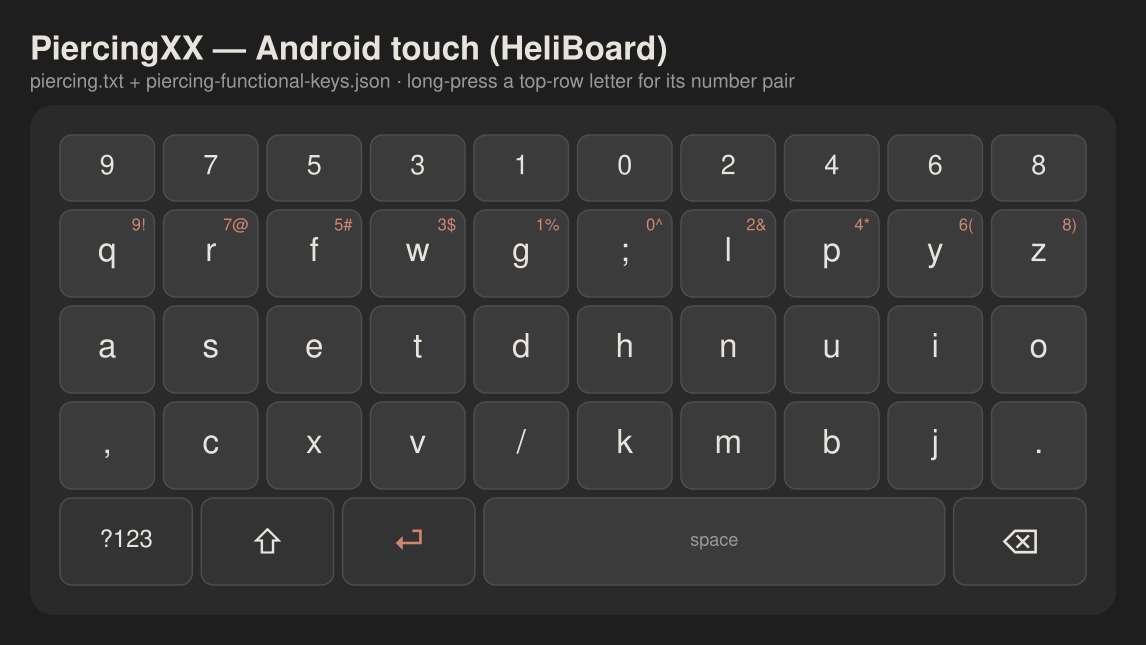
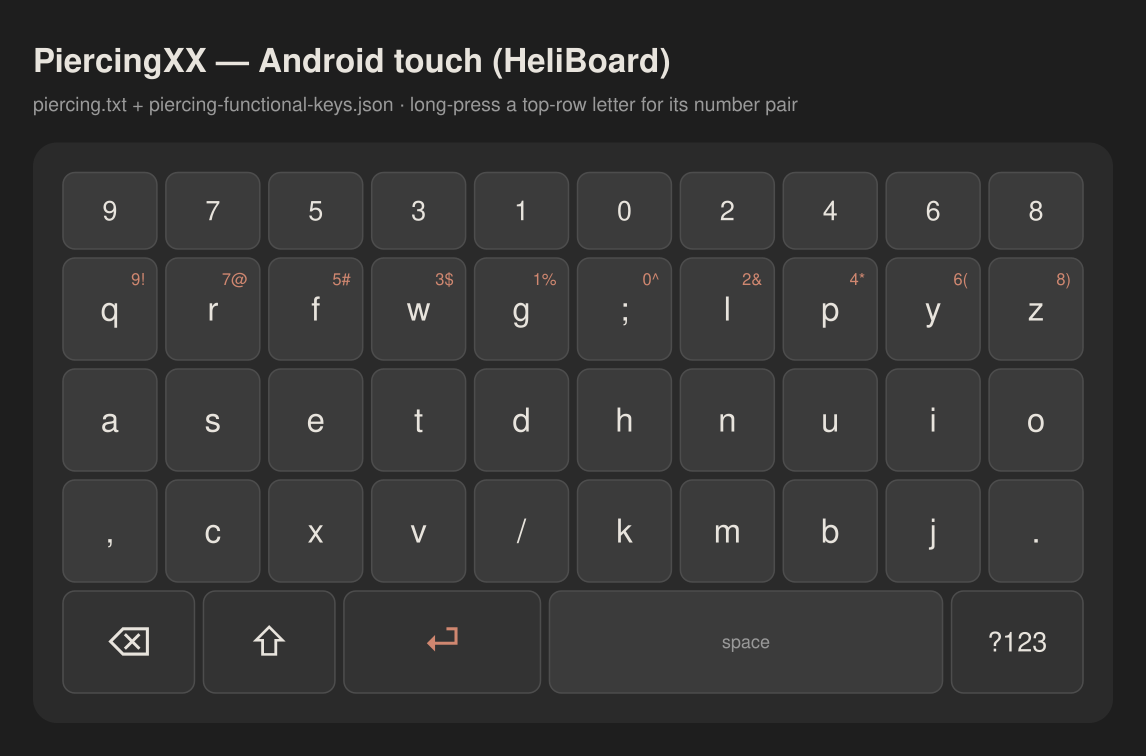
Touch keyboards: swap Backspace/123 ends, widen Enter to 1:2 with space
Bottom row on HeliBoard and all Squeekboard variants is now
Backspace / Shift / (prefs) / Enter / space / 123, with the Enter key
sized at half the spacebar.

diff --git a/README.md b/README.md
@@ -69,8 +69,9 @@ On-screen keyboard layouts for Phosh phones (Furi, PinePhone, Librem 5),
 based on the furi-phone-colemak-keyboard structure. Includes portrait +
 landscape (`_wide`) variants of the base layout plus `terminal/` (Ctrl,
 Alt, Tab, arrows, F-keys), `email/` (@ key), and `url/` (/ key) hint
-variants. Bottom row everywhere: Shift · 123 · prefs · Enter · space ·
-Backspace — Enter left of space, same as the Preonic thumb keys.
+variants. Bottom row everywhere: Backspace · Shift · prefs · Enter ·
+space · 123 — Enter left of space (~1:2 Enter:space split), same thumb
+order as the Preonic.
 
 Run **on the phone**, inside the Phosh session:
 
@@ -100,7 +101,8 @@ of Gboard itself. Use [HeliBoard](https://github.com/Helium314/HeliBoard)
 2. Settings → Layouts → Functional keys → add custom →
    load `android/heliboard/piercing-functional-keys.json`. This clears the
    cramped Shift/Backspace off the letter row and makes the bottom row
-   `?123 · ⇧ · ⏎ · space · ⌫` (Enter left of space, like the Preonic).
+   `⌫ · ⇧ · ⏎ · space · ?123` (Enter left of a ~1:2 space, like the
+   Preonic).
 3. Long-press any top-row letter for that column's number-row pair
    (e.g. long-press `q` → `9` / `!`).
 4. Optional: enable Settings → Preferences → Number row. HeliBoard can